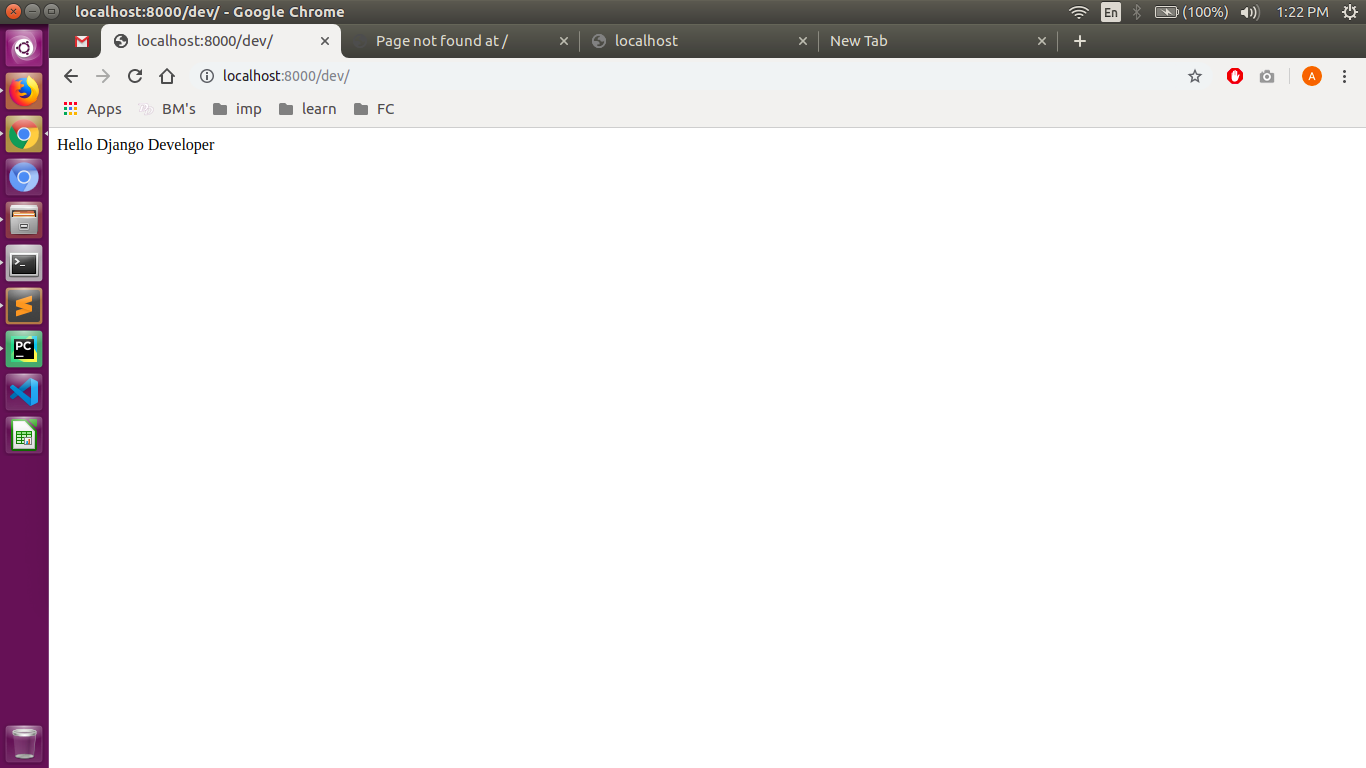
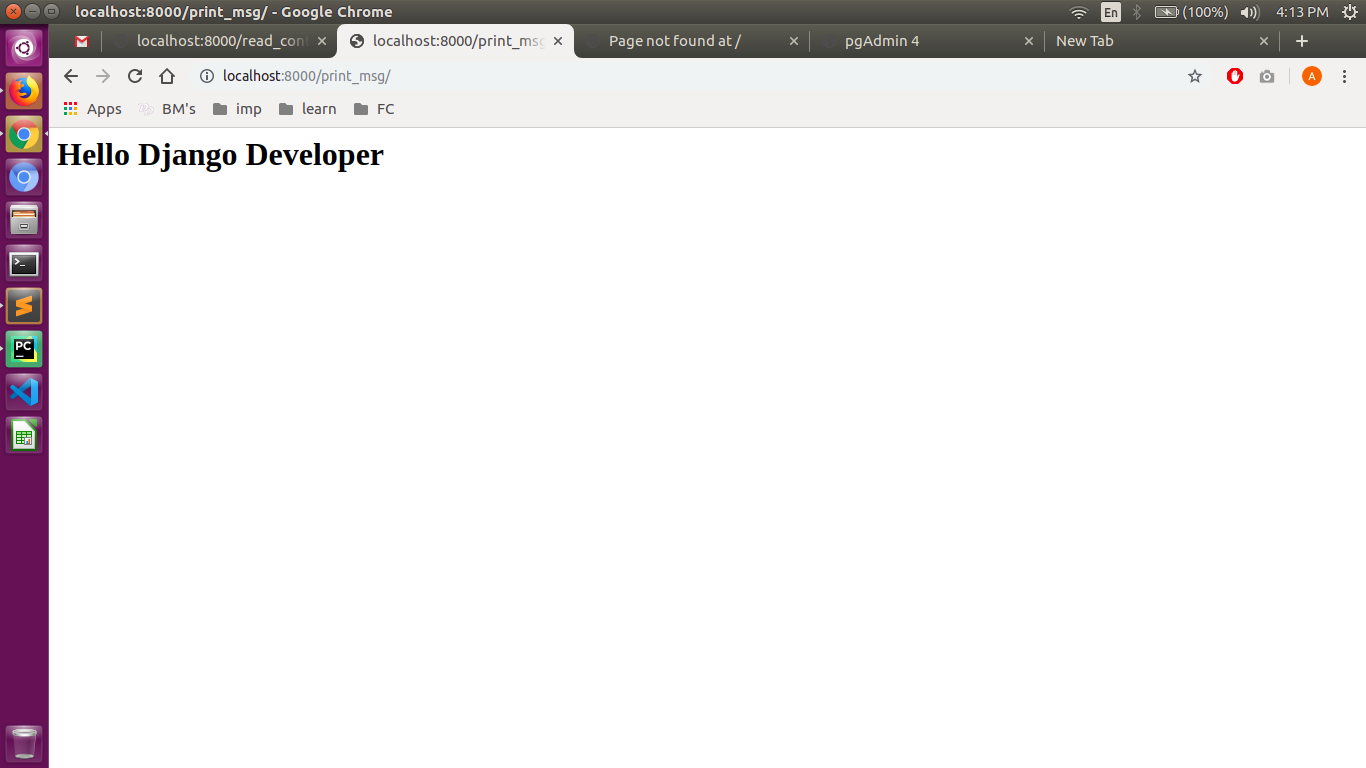
read_content_from_file </> Thu, 2019-07-11, 16:26:13 IST 192

diff --git a/projtest/templates/home.html b/projtest/templates/home.html
@@ -1,0 +1,1 @@
+<h1>Hello Python Developer</h1>

diff --git a/projtest/projtest/settings.py b/projtest/projtest/settings.py
@@ -37,6 +37,7 @@ INSTALLED_APPS = [
     'django.contrib.sessions',
     'django.contrib.messages',
     'django.contrib.staticfiles',
+    'calc',
 ]
 
 MIDDLEWARE = [
@@ -54,7 +55,7 @@ ROOT_URLCONF = 'projtest.urls'
 TEMPLATES = [
     {
         'BACKEND': 'django.template.backends.django.DjangoTemplates',
-        'DIRS': [],
+        'DIRS': [os.path.join(BASE_DIR, 'templates')],
         'APP_DIRS': True,
         'OPTIONS': {
             'context_processors': [

diff --git a/projtest/calc/views.py b/projtest/calc/views.py
@@ -1,7 +1,11 @@
 from django.shortcuts import render
 from django.http import HttpResponse
 
+
 # Create your views here.
 
-def home(request):
-    return HttpResponse('Hello Django Developer')
+def print_msg(request):
+    return HttpResponse('<h1>Hello Django Developer</h1>')  # return text
+
+def read_content_from_file(request):
+    return render(request, 'home.html')

diff --git a/projtest/calc/urls.py b/projtest/calc/urls.py
@@ -2,5 +2,6 @@ from django.urls import path
 from . import views
 
 urlpatterns = [
-    path('dev/', views.home, name='home')
+    path('print_msg/', views.print_msg, name='home'),
+    path('read_content_from_file/', views.read_content_from_file, name='home'),
 ]

diff --git a/README.md b/README.md
@@ -16,7 +16,14 @@
 	- => python3 manage.py runserver
 <kbd><img src="/imgs-readme/django_default-page_v1-1_censored.jpg" alt="django_default-page_v1-1" title="django_default-page"></img></kbd>
 
+
 ---
 ## print 'Hello Django Developer'
-	- => python3 manage.py runserver
+	- In browser, Hit localhost:8000/print_msg 
 <kbd><img src="/imgs-readme/print_Hello-Django-Developer.png" alt="img_alternative_txt_v1-1"></img></kbd>
+
+
+---
+## read content from file
+	- In browser, Hit localhost:8000/read_content_from_file
+<kbd><img src="/imgs-readme/read-content-from-file_v1-1.png" alt="img_alternative_txt_v1-1"></img></kbd>
